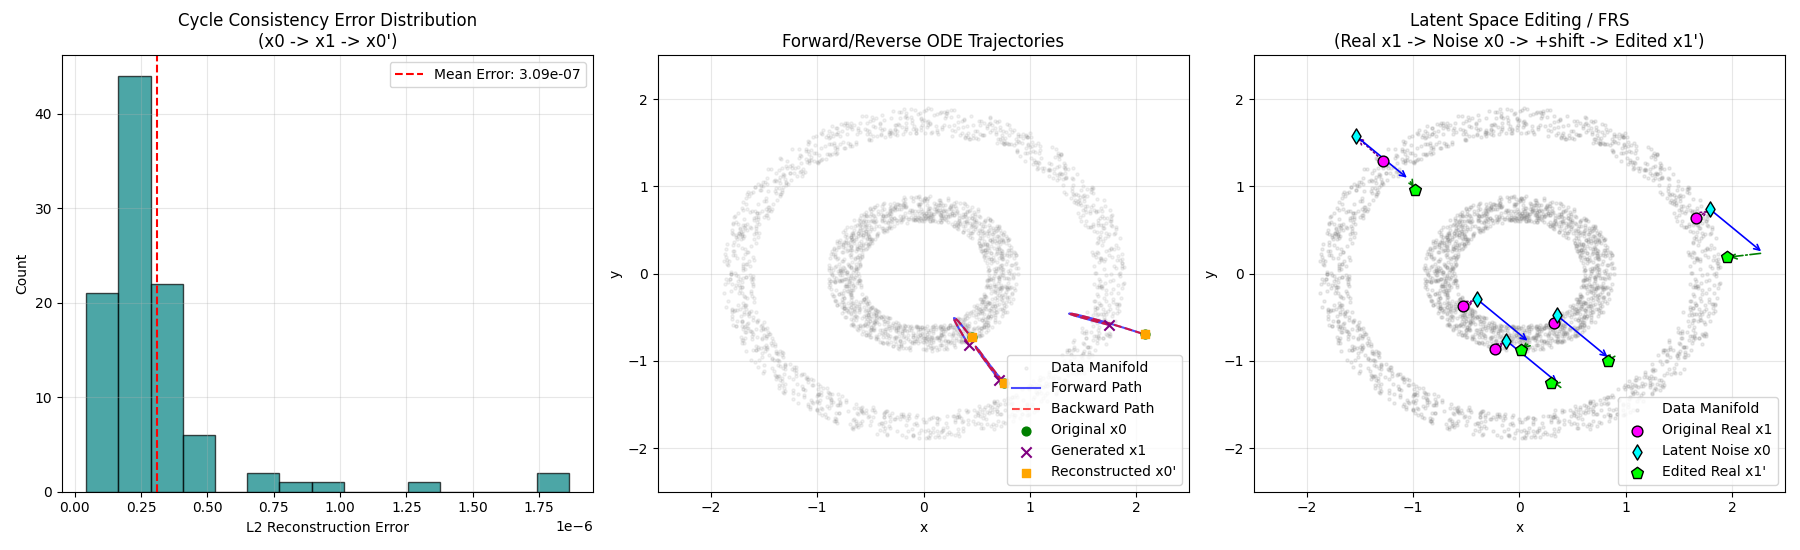
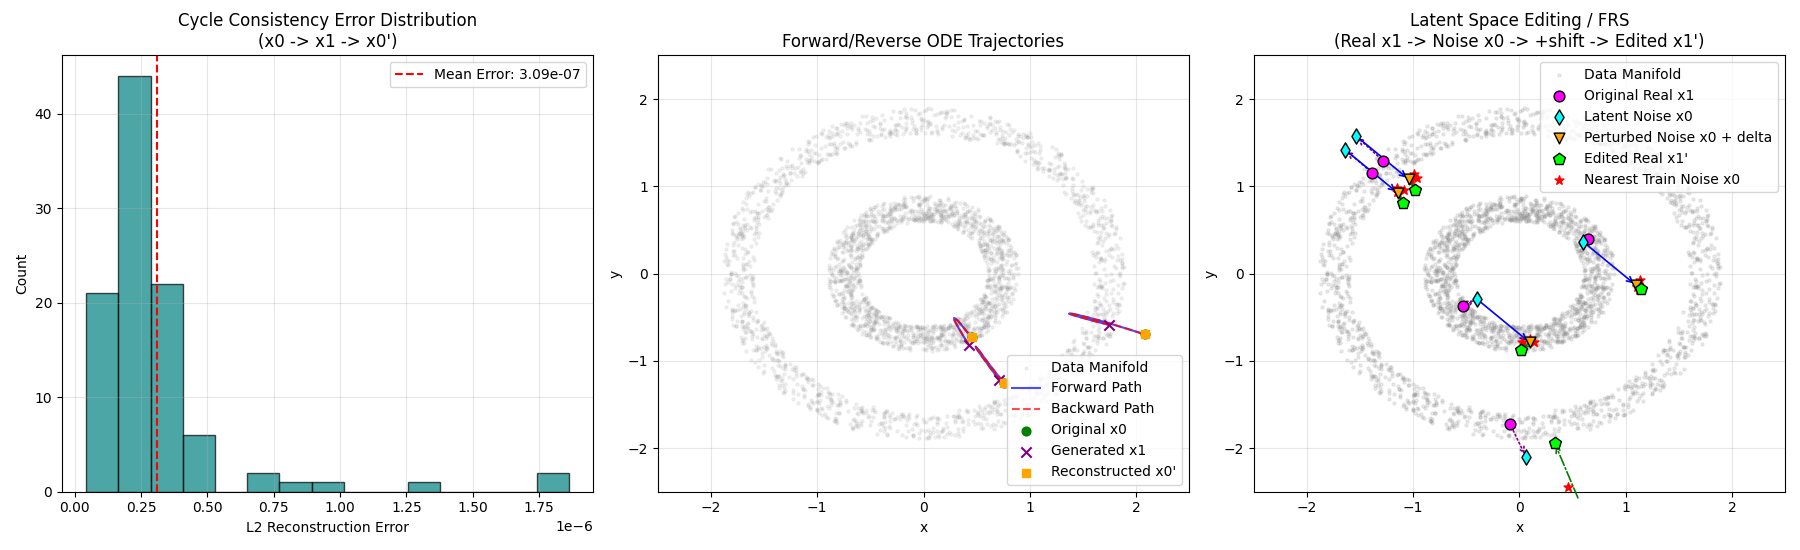
made more improvements to the inversion

diff --git a/poc_5_isolated_flow_experiments/task_3_inversion.py b/poc_5_isolated_flow_experiments/task_3_inversion.py
@@ -129,8 +129,19 @@ print(f"Cycle Consistency Error: Mean = {mean_error:.8f}, Max = {max_error:.8f}"
 # 5. Latent Space Editing (Noise Steering)
 # ----------------------------------------------------
 print("\nPerforming Latent-Space Editing...")
-# Take 5 actual data points
-x1_real = x1_data[:5].numpy()
+# Select 5 spread out data points (2 from inner ring, 3 from outer ring)
+inner_pts = x1_data[torch.norm(x1_data, dim=1) < 1.1].numpy()
+outer_pts = x1_data[torch.norm(x1_data, dim=1) >= 1.1].numpy()
+
+x1_real = np.array(
+    [
+        inner_pts[0],
+        inner_pts[len(inner_pts) // 2],
+        outer_pts[0],
+        outer_pts[len(outer_pts) // 3],
+        outer_pts[2 * len(outer_pts) // 3],
+    ]
+)
 
 # Invert them to noise space (1 -> 0)
 sol_invert = solve_ivp(
@@ -270,6 +281,17 @@ axes[2].scatter(
     zorder=5,
     label="Latent Noise x0",
 )
+# Plot perturbed noise points
+axes[2].scatter(
+    x0_perturbed[:, 0],
+    x0_perturbed[:, 1],
+    color="orange",
+    marker="v",
+    s=60,
+    edgecolors="black",
+    zorder=5,
+    label="Perturbed Noise x0 + delta",
+)
 # Plot edited points
 axes[2].scatter(
     x1_edited[:, 0],
@@ -304,6 +326,38 @@ for idx in range(5):
         xy=(x1_edited[idx, 0], x1_edited[idx, 1]),
         xytext=(x0_perturbed[idx, 0], x0_perturbed[idx, 1]),
         arrowprops=dict(arrowstyle="->", color="green", lw=1.2, ls="-."),
+    )
+
+    # Find the nearest 3 points in the initial noise distribution (t=0) for justification
+    # We compare the perturbed noise point to a reference set of training noise points
+    x0_ref = np.random.normal(0, 1.0, (3000, 2))
+    dists = np.linalg.norm(x0_ref - x0_perturbed[idx], axis=1)
+    nearest_idxs = np.argsort(dists)[:3]
+    nearest_pts = x0_ref[nearest_idxs]
+
+    # Plot nearest training noise points
+    axes[2].scatter(
+        nearest_pts[:, 0],
+        nearest_pts[:, 1],
+        color="red",
+        marker="*",
+        s=45,
+        zorder=4,
+        label="Nearest Train Noise x0" if idx == 0 else "",
+    )
+    # Draw line from perturbed noise point to its 3 nearest training noise points
+    for pt in nearest_pts:
+        axes[2].plot(
+            [x0_perturbed[idx, 0], pt[0]],
+            [x0_perturbed[idx, 1], pt[1]],
+            color="red",
+            linestyle=":",
+            alpha=0.6,
+            lw=1,
+        )
+
+    print(
+        f"Perturbed Noise {idx+1} at [{x0_perturbed[idx, 0]:.4f}, {x0_perturbed[idx, 1]:.4f}]: Distances to 3 nearest train noise pts: {dists[nearest_idxs]}"
     )
 
 axes[2].set_title(
